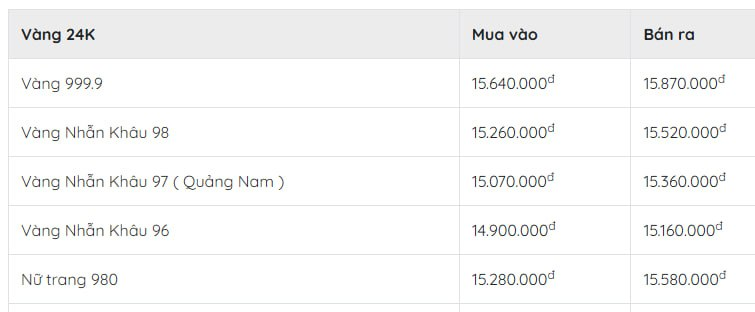
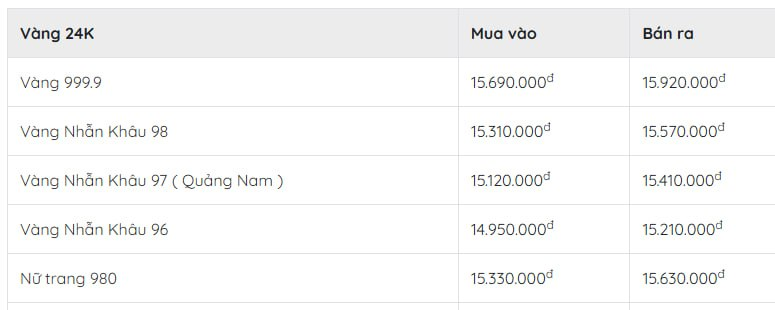
Update kim-khanh-viet-hung price image (15:34)

diff --git a/app/data/goldShops.ts b/app/data/goldShops.ts
@@ -26,7 +26,7 @@ export const GOLD_SHOPS: GoldShop[] = [
     name: "Kim Khánh Việt Hùng",
     location: "Đà Nẵng",
     image: "images/kim-khanh-viet-hung.jpg",
-    updatedAt: "14:42",
+    updatedAt: "15:34",
   },
   {
     id: "tru-cam-le",
